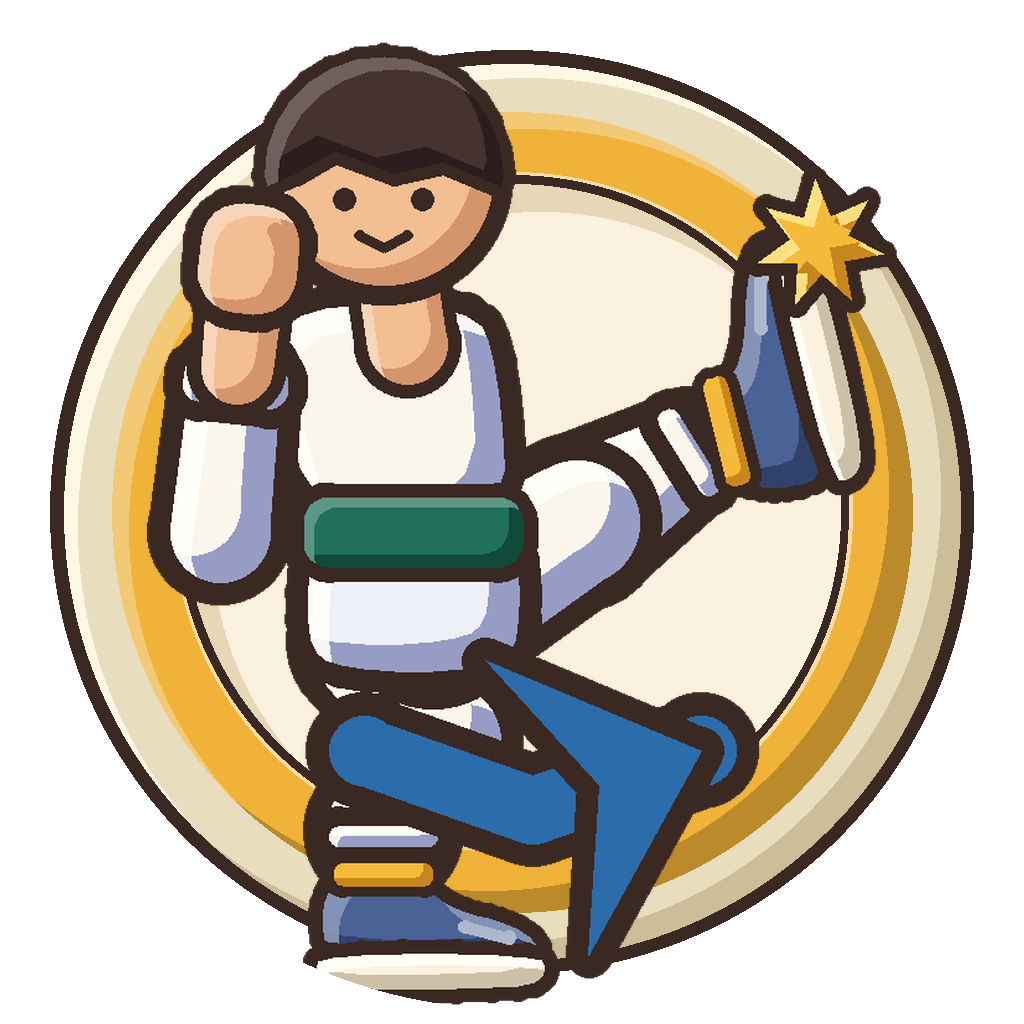
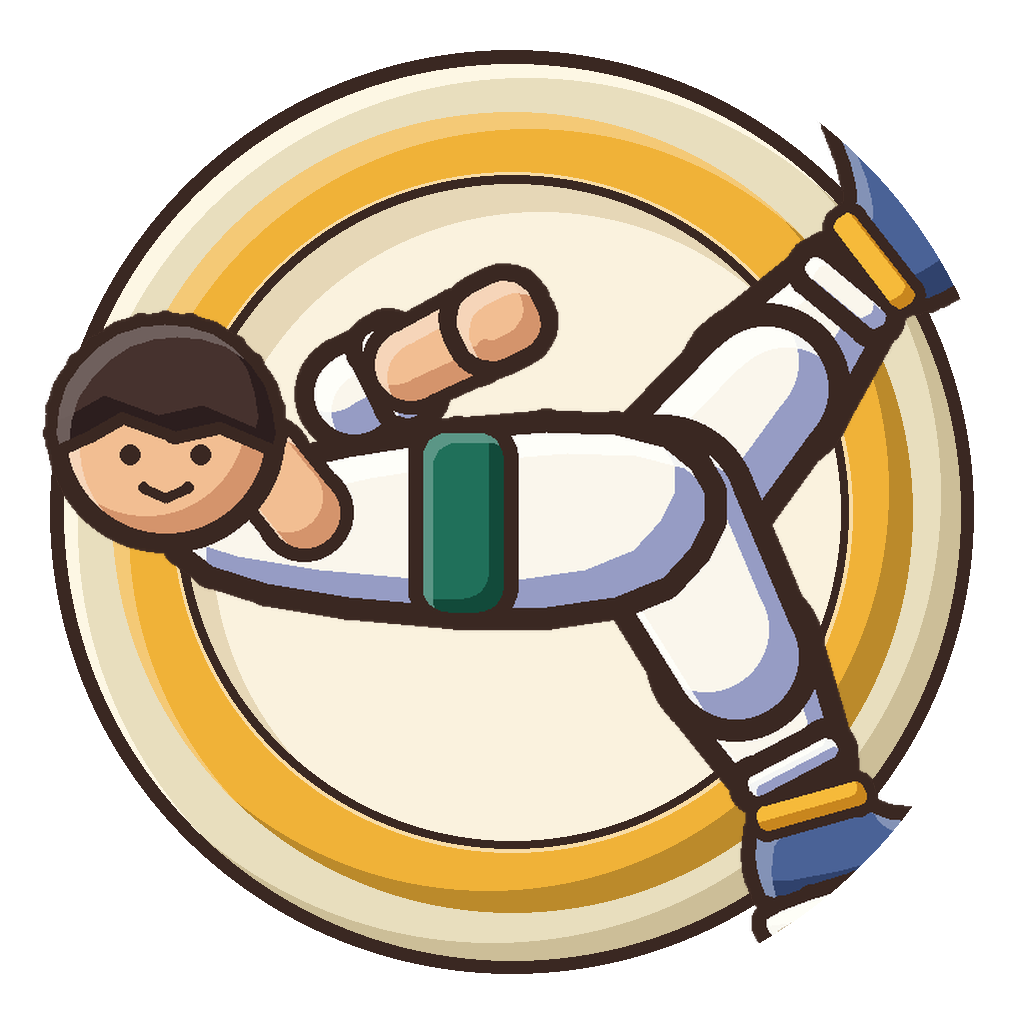
art: G2B-44 butterfly kick, Lunge, and Spinning Finisher
Jay asked for the butterfly kick with the body flat and the legs
scissoring. Lunge and Spinning Finisher are the literal readings of
combos 6 and 7, marked where the pose is not fully described.

diff --git a/incoming-art/icons-strikes/source/strike_icons.py b/incoming-art/icons-strikes/source/strike_icons.py
@@ -4,8 +4,8 @@ The kit lives in incoming-art/icons-slots/source (project code, already on main)
 
 Ids and sources. Line numbers are in the Delivery Note. Nothing here is a pose the docs did not name.
   spin-kick       Strike #1. docs/curriculum.md:46 spinning outside kick (spin kick). Not a jump.
-  butterfly-flow  Strike #3. docs/curriculum.md:48 names a round kick and a tornado kick
-                  (butterfly kick). The pose is not described. Confirmation required.
+  butterfly-flow  Strike #3. Jay, via the Manager: body horizontal, legs scissoring.
+                  docs/curriculum.md:48 names the butterfly kick.
   side-kick-drive Strike #4. docs/curriculum.md:49 step-behind side kick.
   hook-kick       Strike #5. docs/curriculum.md:50 step-behind hook kick. The returning heel is drawn larger.
 """
@@ -100,21 +100,60 @@ def spin_kick():
 
 
 def butterfly_flow():
-    """#3. A tornado kick (the school's butterfly kick): one leg swings in a round arc,
-    and the spin arrow runs the other way from Jumping Spins (head on the right)."""
+    """#3. Jay, via the Manager: the butterfly kick moment. Body near horizontal, in the air, legs scissoring.
+    docs/curriculum.md:48 names that kick. This pose is Jay's answer, not a guess."""
+    a = Art()
+    from seal_icons import forearm_block, limb
+    hip = (158, 128)
+    # two legs from the same hip, opposite ways. Shoes, no toes. No foot on the ground.
+    hip_high_kick(a, hip, ((hip[0] + 200) / 2, (hip[1] + 78) / 2), (200, 78), flex=12)
+    hip_high_kick(a, hip, ((hip[0] + 188) / 2, (hip[1] + 186) / 2), (188, 186), flex=12)
+    body = chaikin([(62, 122), (150, 108), (172, 126), (150, 150), (62, 142)], 2)
+    a.shape(poly_of(body), CREAM_GI, GSH, (255, 255, 250), ow=4.6, band=6)
+    a.shape(poly_of_rect(118, 130, 16, 36, 5), PINE, PINE_S, lighten(PINE, .3), ow=3.0, band=3)
+    limb(a, (78, 118), (86, 128), 7, 7)
+    head_front(a, 58, 112, 20)
+    forearm_block(a, (96, 104), (112, 96), 16, -0.6, 1, r_el=8, r_cuff=8, gband=5, gow=4.0, gshade=GSH)
+    return _finish(a)
+
+
+def lunge():
+    """#6. Literal ending of combo 6: lunge forward with a chambered jumping front kick.
+    docs/curriculum.md:51. The exact frame (knee still bent, or leg already out) is not drawn in the doc."""
     a = Art()
     hx = 108
+    # front kick, out of the hip. The arrow stays above the shin.
+    hip_f = (hx + 6, 132)
+    ankle = (hip_f[0] + 62, hip_f[1] - 4)
+    knee = ((hip_f[0] + ankle[0]) / 2, (hip_f[1] + ankle[1]) / 2)
+    sole = hip_high_kick(a, hip_f, knee, ankle, flex=8)
+    burst(a, sole[0], sole[1], 5, 11, 5, .1)
+    arrow(a, [(hip_f[0] + 12, hip_f[1] - 26), (ankle[0] - 10, ankle[1] - 22), (ankle[0] + 8, ankle[1] - 20)],
+          BLUE_S, 11, 20, outline=INKC, ink_ow=4.6, spread=0.85)
+    # the other knee is up and the shoe is tucked, so both feet are off the ground
+    sleeve(a, (hx - 2, 146), (hx - 8, 118), 13, 11, ow=4.6, shade=GSH, band=6)
+    kick_leg(a, (hx - 22, 136), 80, 16, 0.7, 20, None, r0=15, r1=12, gow=4.6, gshade=GSH)
+    _torso(a, hx, lean=12, ttop=64, belt_y=108, hip=140)
+    return _finish(a)
+
+
+def spinning_finisher():
+    """#7. Literal finish: a spinning hook kick. The redesign also says the hits go around you.
+    docs/curriculum.md:52 and drafts/planning/R-G2B-strikes-4-7.md:27. Limb angle is not in the doc."""
+    a = Art()
+    hx = 118
+    # ring first, so the figure sits inside it. "Hits all enemies in a ring."
+    ring = []
+    for deg in range(200, 200 - 320, -24):
+        ring.append((hx + 78 * math.cos(math.radians(deg)), 132 + 74 * math.sin(math.radians(deg))))
+    arrow(a, ring, BLUE_S, 11, 22, outline=INKC, ink_ow=4.6, spread=0.85)
     _support(a, hx)
-    # round / tornado sweep: one straight leg out at chest height. Not Jumping Spins' 45-degree line.
+    # hook stays inside the ring, heel coming back, so the spin reads and the leg is not the arrow
     hip_pt = (hx + 4, 148)
-    ankle = (hip_pt[0] + 58, hip_pt[1] - 36)
-    knee = ((hip_pt[0] + ankle[0]) / 2, (hip_pt[1] + ankle[1]) / 2)
-    sole = hip_high_kick(a, hip_pt, knee, ankle, flex=18)
-    burst(a, sole[0], sole[1], 6, 13, 7, .15)
+    knee = (hip_pt[0] + 34, hip_pt[1] - 36)
+    ankle = (knee[0] - 30, knee[1] + 4)
+    hip_high_kick(a, hip_pt, knee, ankle, flex=30)
     _torso(a, hx, lean=6)
-    # spin the other way from Jumping Spins: head on the right, in the cream under the kick, not through the legs
-    pts = [(hx - 10, 176), (hx + 24, 188), (hx + 58, 176)]
-    arrow(a, pts, BLUE_S, 14, 28, outline=INKC, ink_ow=4.6, spread=0.9)
     return _finish(a)
 
 
@@ -167,6 +206,8 @@ ALL = {
     'butterfly-flow': butterfly_flow,
     'side-kick-drive': side_kick_drive,
     'hook-kick': hook_kick,
+    'lunge': lunge,
+    'spinning-finisher': spinning_finisher,
 }
 
 def sheet():
@@ -186,49 +227,55 @@ def sheet():
          ['docs/curriculum.md:46', 'spinning outside kick (spin kick)', 'Not a jump. Angle not in the doc.']),
         ('#3 Butterfly Flow',
          os.path.join(out, 'butterfly-flow-full.png'),
-         ['docs/curriculum.md:48', 'round kick and butterfly kick', 'POSE NOT IN THE DOCS. Confirm.']),
+         ['Jay: show the butterfly kick (via Manager)', 'docs/curriculum.md:48', 'Body horizontal, legs scissoring.']),
         ('#4 Side Kick Drive',
          os.path.join(out, 'side-kick-drive-full.png'),
-         ['docs/curriculum.md:49', 'step-behind side kick', 'Unchanged from the first draft.']),
+         ['docs/curriculum.md:49', 'step-behind side kick', 'Unchanged.']),
         ('#5 Hook Kick',
          os.path.join(out, 'hook-kick-full.png'),
          ['docs/curriculum.md:50', 'step-behind hook kick', 'Returning heel drawn larger.']),
+        ('#6 Lunge',
+         os.path.join(out, 'lunge-full.png'),
+         ['docs/curriculum.md:51', 'chambered jumping front kick', 'Confirmation required: exact frame.']),
+        ('#7 Spinning Finisher',
+         os.path.join(out, 'spinning-finisher-full.png'),
+         ['docs/curriculum.md:52 spinning hook kick', 'R-G2B-strikes-4-7.md:27 ring', 'Confirmation required: limb angle.']),
     ]
-    big = 260
-    col = 390
-    pad = 14
-    H = 1180
+    big = 220
+    col = 430
+    pad = 12
+    H = 760
     W = pad + len(cells) * col
     img = Image.new('RGB', (W, H), (28, 26, 24))
     d = ImageDraw.Draw(img)
-    d.text((pad, 8), 'G2B-44. Two approved references, then samples #1 #3 #4 #5. True 40 and 30, colour then grey. The x4 boxes are the same pixels, enlarged.', fill=(250, 246, 236), font=tiny)
+    d.text((pad, 6), 'G2B-44. Approved Jumping Spins and Strike slot, then #1 #3 #4 #5 #6 #7. Under each: colour, then grey, at 128, 96, 64, 40, 30.', fill=(250, 246, 236), font=tiny)
+    sizes = (128, 96, 64, 40, 30)
     for i, (label, path, cite) in enumerate(cells):
         x = pad + i * col
-        y = 32
+        y = 26
         d.text((x, y), label, fill=(250, 246, 236), font=font)
         im = Image.open(path).convert('RGBA')
         big_im = im.resize((big, big), Image.LANCZOS)
         tile = Image.new('RGBA', (big, big), (28, 26, 24, 255))
         tile.alpha_composite(big_im)
-        img.paste(tile.convert('RGB'), (x, y + 22))
+        img.paste(tile.convert('RGB'), (x, y + 20))
         for n, line in enumerate(cite):
-            d.text((x, y + 24 + big + 2 + n * 15), line, fill=(232, 196, 120), font=tiny)
-        y2 = y + 24 + big + 50
+            d.text((x, y + 22 + big + n * 14), line, fill=(232, 196, 120), font=tiny)
+        y2 = y + 22 + big + 46
         for grey, word in ((False, 'colour'), (True, 'grey')):
-            for sz in (40, 30):
+            d.text((x, y2), word, fill=(200, 190, 170), font=tiny)
+            sx = x
+            for sz in sizes:
                 one = im.resize((sz, sz), Image.LANCZOS)
                 if grey:
                     g = ImageOps.grayscale(one)
                     one = Image.merge('RGBA', (g, g, g, one.split()[-1]))
-                d.text((x, y2), f'{word} {sz} true, then the same pixels x4', fill=(200, 190, 170), font=tiny)
-                true = Image.new('RGBA', (sz, sz), (28, 26, 24, 255))
-                true.alpha_composite(one)
-                img.paste(true.convert('RGB'), (x, y2 + 18))
-                zoom = one.resize((sz * 4, sz * 4), Image.NEAREST)
-                box = Image.new('RGBA', (sz * 4, sz * 4), (28, 26, 24, 255))
-                box.alpha_composite(zoom)
-                img.paste(box.convert('RGB'), (x + sz + 8, y2 + 18))
-                y2 += 18 + sz * 4 + 12
+                box = Image.new('RGBA', (sz, sz + 14), (28, 26, 24, 255))
+                ImageDraw.Draw(box).text((0, 0), str(sz), fill=(200, 190, 170), font=tiny)
+                box.alpha_composite(one, (0, 14))
+                img.paste(box.convert('RGB'), (sx, y2 + 16))
+                sx += sz + 6
+            y2 += 16 + 128 + 8
     img.save(os.path.join(out, 'sheet-g2b44-samples.png'))
     print('sheet', img.size)
 

diff --git a/incoming-art/icons-strikes/DELIVERY_NOTE.md b/incoming-art/icons-strikes/DELIVERY_NOTE.md
@@ -1,70 +1,1 @@
-# G2B-44 — Strike icon samples, second look (still a draft)
-
-Not approved. Not exported. Not pushed.
-
-**ITEM.** Four sample Strike icons on one sheet, next to the two approved Strike pictures already on main. The first three drafts are kept in `superseded/sample-1/`.
-
-**WHAT.**
-
-| # | File | What changed |
-| --- | --- | --- |
-| 1 | `preview/spin-kick-full.png` | New. The finishing kick of combo 1. |
-| 3 | `preview/butterfly-flow-full.png` | Same pixels as the first draft. Pose is not confirmed. |
-| 4 | `preview/side-kick-drive-full.png` | Same pixels as the first draft. |
-| 5 | `preview/hook-kick-full.png` | Returning heel is larger and sits in open space. |
-
-Sheet: `preview/sheet-g2b44-samples.png`. Each column has the large picture, the source line, then true 40 and true 30 in colour and in grey. The bigger boxes are those same pixels enlarged.
-
-Approved references on the sheet: `incoming-art/icons-slots/sprites/jumping-spins@2x.png` (Strike #2) and `strike@2x.png` (the slot picture, a front kick on a pad). The slot picture is not combo 1.
-
-**WHY.** #1 was missing. #3 reads too close to #2, and the docs do not describe that pose, so it is marked for confirmation instead of being redrawn into a guess. #5's returning heel did not read at 30 px.
-
-## What the docs say, and what they do not
-
-### #1 Spin Kick — drawn from the named kick
-
-Specified:
-
-- `docs/curriculum.md:46` — combo 1 ends with "spinning outside kick (spin kick)", after two front kicks, an inside kick, and an outside kick.
-- `docs/curriculum.md:47` — the jump belongs to combo 2 ("an additional 3 jumping spin kicks"). Combo 1 does not say jump.
-- `content/abilities/strikes.json:5-16` — id `spin-kick`, name Spin Kick, text "One big spinning kick.", one hit.
-- `drafts/planning/R-G2B-strikes-4-7.md:21` — one heavy hit, long reach, real combo ends with a spinning outside kick.
-- `incoming-art/menu-catalog/sprites/moves-text.json:706-721` — the same five steps, last step "Spinning outside kick."
-
-Not specified: the hip angle, the height, and which way the body turns. The picture shows one standing kick with the leg across at about chest height, and one spin arrow. That is so it is not the steep kick on Jumping Spins and not the front kick on the slot picture. The angle itself is not in the docs.
-
-### #3 Butterfly Flow — confirmation required
-
-Specified:
-
-- `docs/curriculum.md:48` — combo 3 is combo 2 plus "an additional round kick and tornado kick (we call it butterfly kick)."
-- `content/abilities/strikes.json:35-46` — id `butterfly-flow`, name Butterfly Flow, text "Spin the other way. It takes a moment to land, but it hits harder."
-- `drafts/planning/R-G2B-strikes-4-7.md:12` — "spins the opposite way, hits harder, slower to land."
-- `drafts/planning/R-G2B-strikes-4-7.md:23` — real combo ends with "round kick and butterfly kick."
-- `incoming-art/menu-catalog/sprites/moves-text.json:738-750` — same sentence as the curriculum. `stepsNeedReview` is true on that entry.
-
-Not specified: body upright or flat, which of the two added kicks to draw, which leg, the knee, or the height. The first-draft picture is still on the sheet and it reads too close to Jumping Spins. That picture is not claimed to be the right pose.
-
-### #4 Side Kick Drive — unchanged
-
-Specified: `docs/curriculum.md:49` begins with step-behind side kicks. The name Side Kick Drive is in `drafts/planning/R-G2B-strikes-4-7.md:24`. This icon was not redrawn.
-
-### #5 Hook Kick — heel only
-
-Specified:
-
-- `docs/curriculum.md:50` — "step behind hook kick" twice, then three front kicks.
-- `drafts/planning/R-G2B-strikes-4-7.md:25` — Jay, Nov 8 (J20), the name is Hook Kick. J19: it reaches around a guard.
-- `incoming-art/menu-catalog/sprites/moves-text.json:766-776` — the curriculum sentence. The game name there is still empty.
-
-The change is the size and the placement of the returning heel, so it stays a separate shape at 30 and 40. The angle is still not in the docs. The teal pad stands in for the guard. No new kick was added.
-
-**Checks.** Dark ink outline, gold Strike rim, pine belt `#20705A` (the same placeholder already on Jumping Spins). One mitten fist. Toeless shoes. No red pixels. Canvas margin about 19 px on the 1024 drawing (about 2 px on the 128 file). #3 and #4 match the archived first drafts pixel for pixel.
-
-**DECIDE.**
-
-1. Butterfly Flow: the docs name a round kick and a butterfly kick (their word for a tornado kick) and say it spins the other way. They do not describe the pose. Which kick should the icon show, and what does that pose look like?
-2. Spin Kick: is a standing kick across at chest height a fair picture of the spinning outside kick, or does the school draw that kick differently?
-3. Hook Kick: is the larger returning heel clear enough at 30 px?
-
-**NEXT.** After this look: #6 and #7 only if these four are accepted. Do not start G2B-40, G2B-41, or G2B-42 here. The queue order for those is 40, then 41, then 42. No export until you say so.
+The delivery note for this draft is `README.md` in this folder (ITEM, WHAT, WHY, DECIDE, NEXT).

diff --git a/incoming-art/icons-strikes/README.md b/incoming-art/icons-strikes/README.md
@@ -1,23 +1,46 @@
-# Strike icons (G2B-44 samples)
+# G2B-44 — Strike icon samples
 
-Drafts only. Not approved, and not the import set. Nothing in this folder has been exported into the game.
+Draft. Not approved. Not exported into the game.
 
-## This look
+**ITEM.** Strike icons #1 and #3 through #7, in the approved medallion style, for one review.
 
-| File | Strike |
-| --- | --- |
-| `preview/spin-kick-full.png` | #1 Spin Kick. Combo 1 ends with a spinning outside kick (`docs/curriculum.md:46`). |
-| `preview/butterfly-flow-full.png` | #3 Butterfly Flow. Same picture as the first draft. Pose is not in the docs. Confirmation required (`docs/curriculum.md:48`). |
-| `preview/side-kick-drive-full.png` | #4 Side Kick Drive. Unchanged (`docs/curriculum.md:49`). |
-| `preview/hook-kick-full.png` | #5 Hook Kick. Returning heel drawn larger (`docs/curriculum.md:50`). |
-| `preview/sheet-g2b44-samples.png` | Those four, plus the approved Jumping Spins and the approved Strike slot picture. True 40 and 30, colour and grey. |
+**WHAT.**
 
-The first three drafts (before this look) are in `superseded/sample-1/`. They were not deleted.
+| # | File | Status |
+| --- | --- | --- |
+| 1 | `preview/spin-kick-full.png` | Kept. Standing spinning outside kick. |
+| 3 | `preview/butterfly-flow-full.png` | Redrawn. Jay: show the butterfly kick (via Manager). Body near horizontal, in the air, legs scissoring. |
+| 4 | `preview/side-kick-drive-full.png` | Kept. |
+| 5 | `preview/hook-kick-full.png` | Kept. Returning heel enlarged. |
+| 6 | `preview/lunge-full.png` | New. Jumping front kick, other knee up, both feet off the ground. |
+| 7 | `preview/spinning-finisher-full.png` | New. A hooking leg inside a ring. |
 
-The drawing script is `source/strike_icons.py`. It uses the medallion kit already on main (`incoming-art/icons-slots/source`). Pillow only. No outside art pack.
+Sheet: `preview/sheet-g2b44-samples.png`. Approved Jumping Spins and the Strike slot picture sit beside these six. Each is shown large, then in colour and in grey at 128, 96, 64, 40, and 30.
+
+The earlier upright Butterfly Flow picture is in `superseded/sample-2-unconfirmed/`. The first three drafts are in `superseded/sample-1/`.
+
+**WHY.** #3 was waiting on Jay's pose. He answered: draw the butterfly kick, body flat, legs scissoring, not another Jumping Spins. #6 and #7 are the last two Strikes in the live list.
+
+Sources:
+
+- #1 `docs/curriculum.md:46` spinning outside kick (spin kick). The jump is combo 2, line 47. `content/abilities/strikes.json:5-16`.
+- #3 `docs/curriculum.md:48` round kick and tornado kick (we call it butterfly kick). Pose: Jay, via the Manager, 2:33 PM ET. `content/abilities/strikes.json:35-46` names Butterfly Flow and says it spins the other way.
+- #4 `docs/curriculum.md:49` step-behind side kick. Name Side Kick Drive: `drafts/planning/R-G2B-strikes-4-7.md:24`.
+- #5 `docs/curriculum.md:50` step-behind hook kick. Name Hook Kick, and it reaches around a guard: `drafts/planning/R-G2B-strikes-4-7.md:25`.
+- #6 `docs/curriculum.md:51` ends "Step back twice and lunge forward with a chambered jumping front kick." Shape name Lunge: `drafts/planning/R-G2B-strikes-4-7.md:26`. Not in `strikes.json`.
+- #7 `docs/curriculum.md:52` ends with a spinning hook kick. Shape: multi-hit spin around you, hits in a ring: `drafts/planning/R-G2B-strikes-4-7.md:27`. Not in `strikes.json`.
+
+**Checks.** Gold Strike rim, dark ink, pine belt `#20705A`. One mitten fist. Toeless shoes. No red pixels. Canvas margin 17 px or more on the 1024 drawing. #1, #4, and #5 match the previous commit pixel for pixel.
+
+**DECIDE.**
+
+1. #6 Lunge: confirmation required. The line says a chambered jumping front kick. It does not say whether the knee is still bent or the leg is already straight. This picture is the literal reading: in the air, one leg out in a front kick, the other knee up.
+2. #7 Spinning Finisher: confirmation required. The finish is a spinning hook kick, and the redesign adds a ring of hits. The limb angle is not in the doc. The ring is the part that reads at 30 px.
+
+**NEXT.** Wait for a look at this sheet. No sprite export until then. G2B-40, then G2B-41, then G2B-42 are a later batch and are not in this pull request.
+
+Redraw with:
 
 ```
 python3 incoming-art/icons-strikes/source/strike_icons.py
 ```
-
-See `DELIVERY_NOTE.md` for the line-by-line sources and the three open questions.

diff --git a/incoming-art/icons-strikes/superseded/sample-2-unconfirmed/README.md b/incoming-art/icons-strikes/superseded/sample-2-unconfirmed/README.md
@@ -1,0 +1,1 @@
+The first Butterfly Flow picture, before Jay's answer. He asked for the butterfly kick: body near horizontal, legs scissoring. That redraw is in `preview/butterfly-flow-full.png`.
